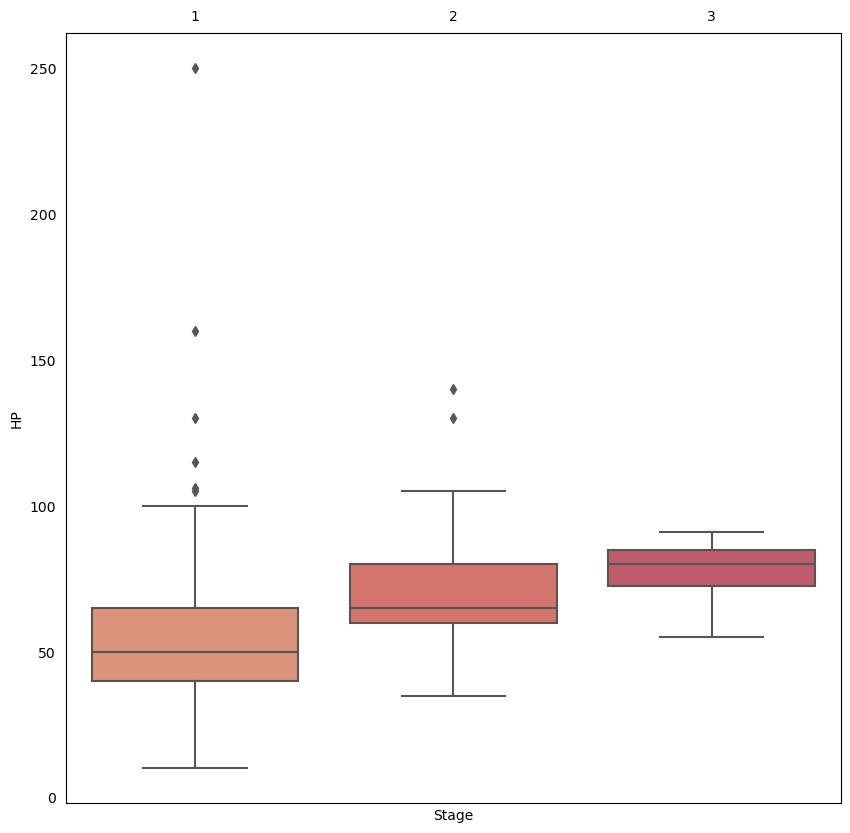
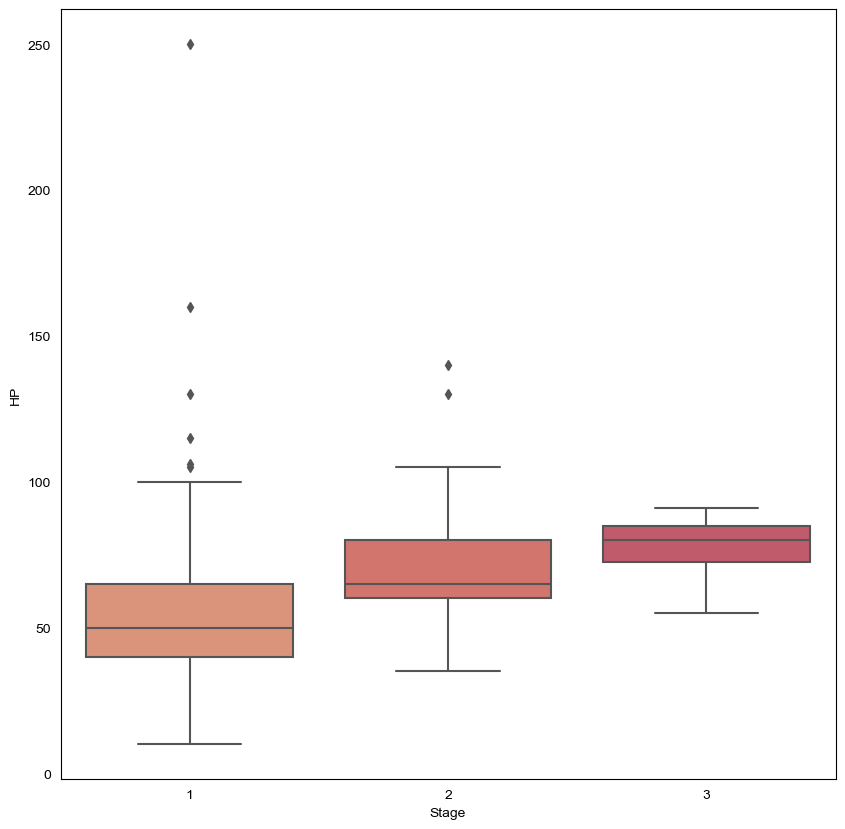
Add files via upload

diff --git a/code.py b/code.py
@@ -48,14 +48,13 @@ def make_plot():
 	
 	plt.rcParams['figure.figsize'] = [10, 10]
 	plt.rcParams['figure.dpi'] = 100
-	plt.pyplot.tick_params(axis='both', which='major', labelsize=10, labelbottom = False, bottom=False, top = False, left = False, labeltop=True)
-	plt.style.use("dark_background")
-	
-	print(df)
+	plt.pyplot.tick_params(axis='both', which='major', labelsize=10, bottom=False, top = False, left = False)
 
-	p = seaborn.boxplot(x="Stage",y="Speed",data=df,palette=seaborn.color_palette("flare"))
-	#(df, cmap=seaborn.color_palette("mako", as_cmap=True))
-	p.get_figure().savefig("pkmn3.png",bbox_inches='tight',transparent=True)
+	
+	seaborn.set_style("white")
+	p = seaborn.boxplot(x="Stage",y="HP",data=df,palette=seaborn.color_palette("flare"))
+	p.get_figure().savefig("pkmn2.png",bbox_inches='tight')
 
 
 make_plot()
+
